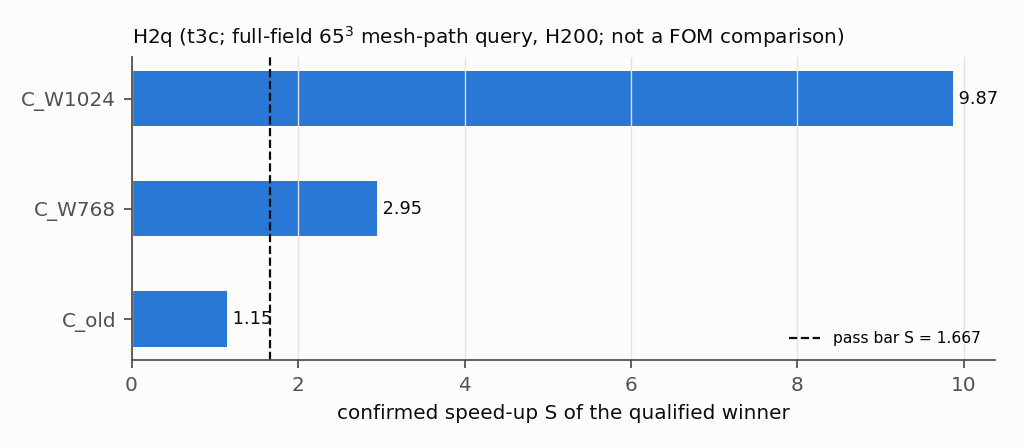
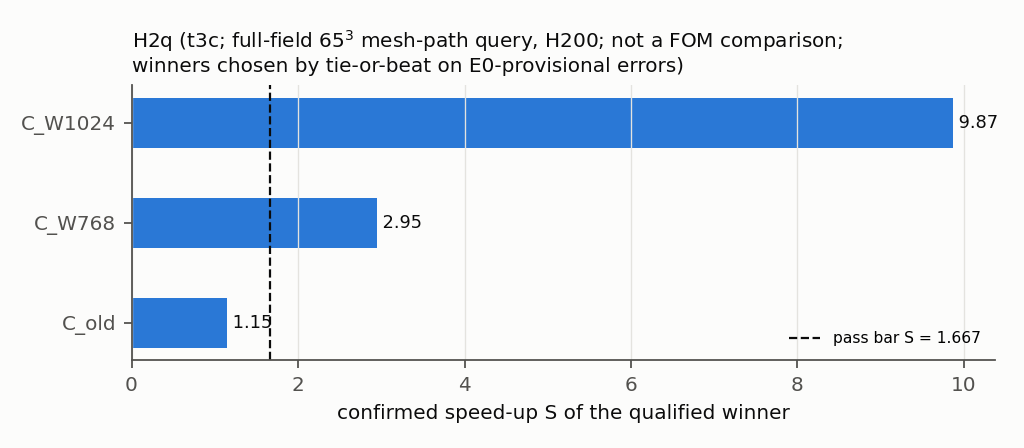
mirror of 4fd991b33: jcp-dims: report audit 3 corrections (LMF heading regex, H2q figure label, derived panel counts, LaTeX)

diff --git a/experiments/jcp-dims/make_report.py b/experiments/jcp-dims/make_report.py
@@ -17,6 +17,12 @@ HERE = Path(__file__).resolve().parent
 CONTRACT_2D = 't2: online cost c = median over valid fused triplets of t_fused / mean(t_A), full-field query, 1024^2, H200'
 REF_A = (lambda c: (f"r = {c['A']['Rp']}, M = {c['A']['M']}, {c['A']['rule']}, {c['A']['form']}-{c['A']['scheme']}") if c else 'see configs/t2.json')(
     (lambda p: json.loads(p.read_text()) if p.exists() else None)(HERE / 'configs' / 't2.json'))
+SCREEN_DESC = (lambda c: (lambda pn: f"{len(pn.get('cases', [])) if isinstance(pn.get('cases'), list) else pn.get('cases')} cases × {pn.get('reps')} repetitions")(
+    next((b for b in c['blocks'] if b.get('kind') == 'panel'), {})) if c else 'the registered panel')(
+    (lambda p: json.loads(p.read_text()) if p.exists() else None)(HERE / 'configs' / 't3s.json'))
+CONFIRM_DESC = (lambda c: (lambda pn: f"{len(pn['cases']) if isinstance(pn.get('cases'), list) else pn.get('cases')} cases × {pn.get('reps')} repetitions")(
+    next((b for b in c['blocks'] if b.get('kind') == 'panel'), {})) if c else 'the registered panel')(
+    (lambda p: json.loads(p.read_text()) if p.exists() else None)(HERE / 'configs' / 't3c.json'))
 CONTRACT_3D = 'full-field $65^3$ mesh-path query, H200; not a comparison with the best FOM (K2 already fired)'
 PLOTS = HERE / 'plots'
 SERIES = ['#2a78d6', '#eb6834', '#1baf7a', '#eda100', '#e87ba4', '#008300', '#4a3aa7']   # categorical, fixed order
@@ -121,7 +127,7 @@ def sec_2d(a2, L, plots):
         exp['costs_2d'] = {k: (dict(v, contract=CONTRACT_2D) if not k.startswith('_') else v) for k, v in co.items()}
     L.append('\n## A3 (2D): representation size at fixed $(M,m)$ and fixed $m$ (E0-provisional errors)\n')
     for nm, v in a2['A3'].items():
-        L.append(f"- **{nm}**: " + '; '.join(f"{t['X'].split('|')[0]} → {t['Y'].split('|')[0]}: {t['label']}" for t in v['transitions'])
+        L.append(f"- **`{nm}`**: " + '; '.join(f"{t['X'].split('|')[0]} → {t['Y'].split('|')[0]}: {t['label']}" for t in v['transitions'])
                  + f" — range: **{v['range']}**\n")
     if a2.get('elasticity'):
         e = a2['elasticity']
@@ -144,7 +150,7 @@ def sec_2d(a2, L, plots):
                 rows.append([k, '—', v.get('outcome'), '', '', ''])
         L.append(table(['r_a → r_b', 'cases', 'Δ median error (r, M, m)', 'labels', 'Δ cost (r, M, m)', 'labels'], rows) + '\n')
     lm = a2.get('LMF', {})
-    lc = sorted({re.match(r'R(\\d+)M(\\d+)lmf', k).groups() for k in cfg if re.match(r'R\\d+M\\d+lmf', k)})
+    lc = sorted({re.match(r'R(\d+)M(\d+)lmf', k).groups() for k in cfg if re.match(r'R\d+M\d+lmf', k)})
     L.append(f"\n## B6-LMF: low mixed-frequency (hyperbolic-cross) test set at {', '.join(f'(r, M) = ({a}, {b})' for a, b in lc)}\n")
     L.append(f"Stability checks: {lm.get('stability')}. " + (f"Outcome: {lm['outcome']}." if lm.get('outcome') else '') + '\n')
     for f in ('gauss', 'smolyak'):
@@ -389,7 +395,7 @@ def more_plots(a2, a3, plt):
             for i, v in enumerate(S):
                 ax.text(v, i, f' {v:.3g}', va='center', fontsize=8, color=INK)
             ax.set_xlabel('confirmed speed-up S of the qualified winner'); ax.grid(axis='y', visible=False)
-            ax.set_title('H2q (t3c; full-field $65^3$ mesh-path query, H200; not a FOM comparison)', color=INK, loc='left', fontsize=9)
+            ax.set_title('H2q (t3c; full-field $65^3$ mesh-path query, H200; not a FOM comparison;\nwinners chosen by tie-or-beat on E0-provisional errors)', color=INK, loc='left', fontsize=9)
             fig.tight_layout(); fig.savefig(PLOTS / 'h2q_3d.png', dpi=160); plt.close(fig)
             out.append(('h2q_3d.png', 'H2q confirmation speed-ups against the three comparators; dashed = pass bar; winners selected by tie-or-beat on E0-provisional errors; C_W1024 is an unqualified comparator; ' + CONTRACT_3D + '.'))
         wm = a3.get('width_mstar') or {}
@@ -486,7 +492,7 @@ def key_outcomes(a2, a3):
         L.append(f"- **A4 (2D)**: {sum(1 for v in F2.values() if v['mstar'].get('m'))} of {len(F2)} F2 cells reach a Gauss m*; "
                  f"m* ranges over {ms[0] if ms else '—'} … {ms[-1] if ms else '—'} points; the {len(sq)} square (M = r) cells reach none.")
         for nm, v in a2['A3'].items():
-            L.append(f"- **A3 (2D) {nm}** (E0-provisional): range **{v['range']}** (" + '; '.join(t['label'] for t in v['transitions']) + ').')
+            L.append(f"- **A3 (2D) `{nm}`** (E0-provisional): range **{v['range']}** (" + '; '.join(t['label'] for t in v['transitions']) + ').')
         ctl = {v.get('control') for k, v in a2['B6'].items() if 'transitions' in v}
         L.append(f"- **B6 (2D)**: M = r control status across cells: {', '.join(sorted(map(str, ctl)))} — test-space verdicts "
                  'blocked.')
@@ -538,11 +544,11 @@ GLOSSARY = [
     ('bad-vector control', 'a deliberately degenerate lattice that the gate must flag.'),
     ('LMF', 'low mixed-frequency (hyperbolic-cross) test set: modes ordered by the product $k_x k_y$.'),
     ('reference A / cost c', '2D: every timed subject is bracketed by two runs of a fixed reference configuration A (' + REF_A + '); c is the subject time divided by the mean A time (1 = as expensive as A). 3D screening: the same with A = C_old.'),
-    ('screening / confirmation', '3D timing in two stages: `t3s` screens every qualified configuration against C_old on four cases × two repetitions; `t3c` re-times each selected (comparator, winner) pair on eight cases × three repetitions; H2q uses the confirmation.'),
+    ('screening / confirmation', '3D timing in two stages: `t3s` screens every qualified configuration against C_old on ' + SCREEN_DESC + '; `t3c` re-times each selected (comparator, winner) pair on ' + CONFIRM_DESC + '; H2q uses the confirmation.'),
     ('median / worst front', 'configurations not beaten in both cost and median (or worst-case) error by another qualified configuration.'),
     ('open candidates', 'untested configurations that a qualified configuration does not dominate; their existence means the front may be incomplete.'),
     ('resolution', 'the fraction of cases whose paired difference exceeds the tie band; a transition with too few resolved cases is "inconclusive (resolution)".'),
-    ('rule names', '2D: `gauss<n>` = n×n Gauss tensor rule, `fib<F>` = Fibonacci lattice with F points, `sobol<m>`, `halton<m>`, `mc<m>` = m points, `smolyak<l>` = sparse grid of level l. 3D: `gl<n>` = n³ Gauss, `lat<m>` = rank-1 lattice, `sob<m>`, `hal<m>`, `mc<m>`, `smolyak3`. A suffix `s<k>` is the random draw (seed) k; none = draw 0.'),
+    ('rule names', '2D: `gauss<n>` = $n\\times n$ Gauss tensor rule, `fib<F>` = Fibonacci lattice with F points, `sobol<m>`, `halton<m>`, `mc<m>` = m points, `smolyak<l>` = sparse grid of level l. 3D: `gl<n>` = $n^3$ Gauss, `lat<m>` = rank-1 lattice, `sob<m>`, `hal<m>`, `mc<m>`, `smolyak3`. A suffix `s<k>` is the random draw (seed) k; none = draw 0.'),
     ('fs / fsp', '`fs` = fixed-sweep Newton solver (K sweeps per step); `fsp` = the same with two extra predictor candidates (cubic extrapolation and an IMEX predictor), from speed3d `fs3p`.'),
     ('identity', 'the timed run must reproduce, bit for bit (hashes) and within the registered tolerance (DESIGN §4) against the accuracy job, the run that was scored; otherwise its timing is unusable.'),
     ('usable', 'a timing subject whose identity checks, inventory and valid-triplet fraction pass.'),

diff --git a/experiments/jcp-dims/report.md b/experiments/jcp-dims/report.md
@@ -41,8 +41,8 @@ Spent **35.2** of 55 GPU-h.
 ## Key outcomes (every verdict below is generated from the analysis files)
 
 - **A4 (2D)**: 22 of 26 F2 cells reach a Gauss m*; m* ranges over 9216 … 36864 points; the 4 square (M = r) cells reach none.
-- **A3 (2D) fixed (M=2048, gauss256)** (E0-provisional): range **not monotone** (improves; improves; does not improve).
-- **A3 (2D) fixed m gauss256, M=4r** (E0-provisional): range **not monotone** (improves; improves; does not improve).
+- **A3 (2D) `fixed (M=2048, gauss256)`** (E0-provisional): range **not monotone** (improves; improves; does not improve).
+- **A3 (2D) `fixed m gauss256, M=4r`** (E0-provisional): range **not monotone** (improves; improves; does not improve).
 - **B6 (2D)**: M = r control status across cells: unavailable (unqualified cell) — test-space verdicts blocked.
 - **B3 (2D) R128M512**: fib: m* = 4181 (stable) (all 5 draws); gauss: m* = 9216 (stable); halton: none (within the candidate list); mc: none (within the candidate list); smolyak: m* = 24577 (stable); sobol: none (within the candidate list) — 6 of 15 pairwise comparisons decided.
 - **B3 (2D) R384M1536**: fib: m* = 28657 (stable) (all 5 draws); gauss: m* = 16384 (stable); halton: none (within the candidate list); mc: none (within the candidate list); smolyak: none (within the candidate list); sobol: none (within the candidate list) — 6 of 15 pairwise comparisons decided.
@@ -591,9 +591,9 @@ Identity failures (excluding the injected control): 23, of which 23 are square (
 
 ## A3 (2D): representation size at fixed $(M,m)$ and fixed $m$ (E0-provisional errors)
 
-- **fixed (M=2048, gauss256)**: R128M2048gauss256 → R256M2048gauss256: improves; R256M2048gauss256 → R384M2048gauss256: improves; R384M2048gauss256 → R512M2048gauss256: does not improve — range: **not monotone**
+- **`fixed (M=2048, gauss256)`**: R128M2048gauss256 → R256M2048gauss256: improves; R256M2048gauss256 → R384M2048gauss256: improves; R384M2048gauss256 → R512M2048gauss256: does not improve — range: **not monotone**
 
-- **fixed m gauss256, M=4r**: R128M512gauss256 → R256M1024gauss256: improves; R256M1024gauss256 → R384M1536gauss256: improves; R384M1536gauss256 → R512M2048gauss256: does not improve — range: **not monotone**
+- **`fixed m gauss256, M=4r`**: R128M512gauss256 → R256M1024gauss256: improves; R256M1024gauss256 → R384M1536gauss256: improves; R384M1536gauss256 → R512M2048gauss256: does not improve — range: **not monotone**
 
 
 Elasticities of the full-query cost (descriptive full-query elasticities (beta_r, beta_M, beta_m), not kernel exponents): $\beta_r$ = 0.654 [0.642, 0.671], $\beta_M$ = 0.528 [0.522, 0.532], $\beta_m$ = 0.653 [0.652, 0.655] (case-bootstrap percentile intervals; fit $\log c=\beta_0+\beta_r\log r+\beta_M\log M+\beta_m\log m$).
@@ -608,7 +608,7 @@ Elasticities of the full-query cost (descriptive full-query elasticities (beta_r
 | 384->512 | — | decomposition not reached (unqualified corner) |  |  |  |
 
 
-## B6-LMF: low mixed-frequency (hyperbolic-cross) test set at 
+## B6-LMF: low mixed-frequency (hyperbolic-cross) test set at (r, M) = (384, 1536)
 
 Stability checks: {'rank_ok': True, 'cond_ok': True, 'all_runs_valid': True, 'q1_gauss256': True, 'passed': True}. 
 
@@ -944,7 +944,7 @@ The Shapley bars of DESIGN 9 are not drawn: every deployed-path decomposition is
 
 - **reference A / cost c** — 2D: every timed subject is bracketed by two runs of a fixed reference configuration A (r = 384, M = 1536, gauss128, LSPG-CNR); c is the subject time divided by the mean A time (1 = as expensive as A). 3D screening: the same with A = C_old.
 
-- **screening / confirmation** — 3D timing in two stages: `t3s` screens every qualified configuration against C_old on four cases × two repetitions; `t3c` re-times each selected (comparator, winner) pair on eight cases × three repetitions; H2q uses the confirmation.
+- **screening / confirmation** — 3D timing in two stages: `t3s` screens every qualified configuration against C_old on 4 cases × 2 repetitions; `t3c` re-times each selected (comparator, winner) pair on 8 cases × 3 repetitions; H2q uses the confirmation.
 
 - **median / worst front** — configurations not beaten in both cost and median (or worst-case) error by another qualified configuration.
 
@@ -952,7 +952,7 @@ The Shapley bars of DESIGN 9 are not drawn: every deployed-path decomposition is
 
 - **resolution** — the fraction of cases whose paired difference exceeds the tie band; a transition with too few resolved cases is "inconclusive (resolution)".
 
-- **rule names** — 2D: `gauss<n>` = n×n Gauss tensor rule, `fib<F>` = Fibonacci lattice with F points, `sobol<m>`, `halton<m>`, `mc<m>` = m points, `smolyak<l>` = sparse grid of level l. 3D: `gl<n>` = n³ Gauss, `lat<m>` = rank-1 lattice, `sob<m>`, `hal<m>`, `mc<m>`, `smolyak3`. A suffix `s<k>` is the random draw (seed) k; none = draw 0.
+- **rule names** — 2D: `gauss<n>` = $n\times n$ Gauss tensor rule, `fib<F>` = Fibonacci lattice with F points, `sobol<m>`, `halton<m>`, `mc<m>` = m points, `smolyak<l>` = sparse grid of level l. 3D: `gl<n>` = $n^3$ Gauss, `lat<m>` = rank-1 lattice, `sob<m>`, `hal<m>`, `mc<m>`, `smolyak3`. A suffix `s<k>` is the random draw (seed) k; none = draw 0.
 
 - **fs / fsp** — `fs` = fixed-sweep Newton solver (K sweeps per step); `fsp` = the same with two extra predictor candidates (cubic extrapolation and an IMEX predictor), from speed3d `fs3p`.
 

diff --git a/experiments/jcp-dims/audits/codex-report-3.md b/experiments/jcp-dims/audits/codex-report-3.md
@@ -1,0 +1,15 @@
+ACCEPT-WITH-CORRECTIONS
+
+Paths below are relative to `experiments/jcp-dims/`.
+
+1. **Low — LMF setting disappears from the report.** `make_report.py:147` uses double-escaped `\\d` inside raw regex strings, so no configuration matches. Consequently, `report.md:611` ends its heading with “test set at” and no setting. Use `\d`; the data identify $(r,M)=(384,1536)$.
+
+2. **Low — H2q PNG still lacks its provisional qualification.** `make_report.py:392` and `plots/h2q_3d.png` omit E0-provisional winner selection. The adjacent report caption now supplies it (`report.md:897`), but the standalone image does not. Include that qualification in the image.
+
+3. **Low — Literal-number and mathematical-formatting cleanup remains incomplete.** `make_report.py:541` hard-codes screening/confirmation case and repetition counts. Derive these from configuration files. Mathematical expressions also remain outside LaTeX, including `M=4r` in `report.md:45` and `n×n`/`n³` in `report.md:955`.
+
+**Verified:** All ten PNGs viewed. Secondary export contracts are present; the front includes all 101 qualified screened configurations, grouped by bank width, with the unqualified comparator separately marked. Heat maps cover all eight rungs, unusable timings are labelled, and the H2q annotation no longer overlaps. Requested glossary definitions, table qualifications, and comparison scope are present. All 21 generated export sections and 57 report-section fragments match their sources in memory.
+
+`H2Q_PASS` equals `1/.6` exactly. Re-executing h2q’s confirmation branch on `analysis-3d.json` reproduces all six results exactly: primary **1.149138 / 2.952802 / 9.874135**, secondary **1.145831 / 2.929196 / 9.670805**, each **fail / pass / pass**. Winner selection was not independently recomputed: that summary JSON lacks its per-case inputs.
+
+Read-only throughout; no files changed, submissions made, arrays copied, or scratch created.
